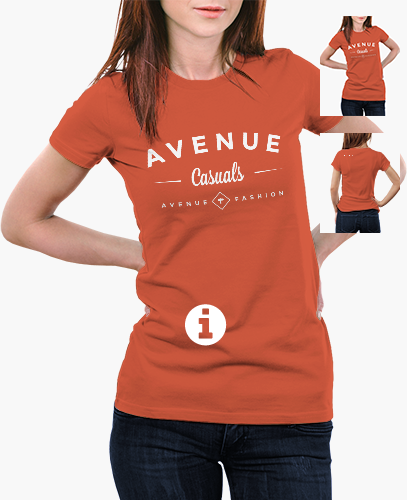
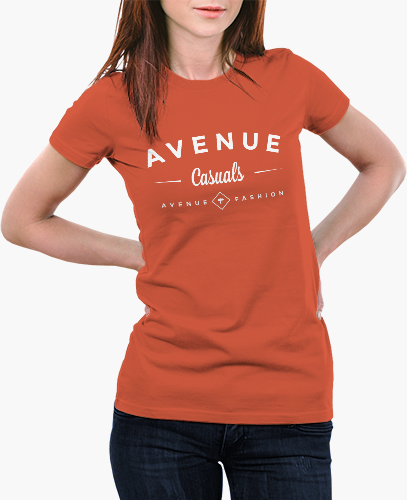
Add shop menu one sub menu to all items.

Changed region(s): [[0.7666, 0.03, 1.0, 0.48], [0.4423, 0.6, 0.5602, 0.69]]

diff --git a/index.html b/index.html
@@ -31,9 +31,24 @@
       <title>chevron-down</title>
       <path d="M4.516 7.548c0.436-0.446 1.043-0.481 1.576 0l3.908 3.747 3.908-3.747c0.533-0.481 1.141-0.446 1.574 0 0.436 0.445 0.408 1.197 0 1.615-0.406 0.418-4.695 4.502-4.695 4.502-0.217 0.223-0.502 0.335-0.787 0.335s-0.57-0.112-0.789-0.335c0 0-4.287-4.084-4.695-4.502s-0.436-1.17 0-1.615z"></path>
     </symbol>
+    <symbol id="icon-shopping-cart" viewBox="0 0 20 20">
+      <title>shopping-cart</title>
+      <path d="M13 17c0 1.104 0.894 2 2 2 1.104 0 2-0.896 2-2 0-1.106-0.896-2-2-2-1.106 0-2 0.894-2 2zM3 17c0 1.104 0.895 2 2 2 1.103 0 2-0.896 2-2 0-1.106-0.897-2-2-2-1.105 0-2 0.894-2 2zM6.547 12.172l11.068-3.162c0.211-0.061 0.385-0.289 0.385-0.51v-5.5h-14v-1.6c0-0.22-0.181-0.4-0.399-0.4h-3.202c-0.219 0-0.399 0.18-0.399 0.4v1.6h2l1.91 8.957 0.090 0.943v1.649c0 0.219 0.18 0.4 0.4 0.4h13.2c0.22 0 0.4-0.182 0.4-0.4v-1.549h-11.248c-1.15 0-1.174-0.551-0.205-0.828z"></path>
+    </symbol>
+    <symbol id="icon-favorite_border" viewBox="0 0 24 24">
+      <title>favorite_border</title>
+      <path d="M12.094 18.563c4.781-4.313 7.922-7.172 7.922-10.078 0-2.016-1.5-3.469-3.516-3.469-1.547 0-3.047 0.984-3.563 2.344h-1.875c-0.516-1.359-2.016-2.344-3.563-2.344-2.016 0-3.516 1.453-3.516 3.469 0 2.906 3.141 5.766 7.922 10.078l0.094 0.094zM16.5 3c3.094 0 5.484 2.391 5.484 5.484 0 3.797-3.375 6.844-8.531 11.531l-1.453 1.313-1.453-1.266c-5.156-4.688-8.531-7.781-8.531-11.578 0-3.094 2.391-5.484 5.484-5.484 1.734 0 3.422 0.844 4.5 2.109 1.078-1.266 2.766-2.109 4.5-2.109z"></path>
+    </symbol>
+    <symbol id="icon-shrink2" viewBox="0 0 32 32">
+      <title>shrink2</title>
+      <path d="M14 18v13l-5-5-6 6-3-3 6-6-5-5zM32 3l-6 6 5 5h-13v-13l5 5 6-6z"></path>
+    </symbol>
     </defs>
     </svg>
 
+    <!-- <svg class="icon icon-shopping-cart"><use xlink:href="#icon-shopping-cart"></use></svg> -->
+    <!-- <svg class="icon icon-favorite_border"><use xlink:href="#icon-favorite_border"></use></svg> -->
+    <!-- <svg class="icon icon-shrink2"><use xlink:href="#icon-shrink2"></use></svg> -->
 
     <header class="header navbar navbar-inverse navbar-fixed-top">
       <div class="container">
@@ -155,23 +170,113 @@
 
 
     <div class="shop-section-one">
-      <div class="shop-section-one__item-1">
+      <div class="shop-section-one__item-1 shop-section-one__item">
         <img src="./images/photo-body-1.png" class="shop-section_img">
+        <div class="shop-section-one__sub-menu">
+          <h5 class="shop-section-one__sub-menu-header">WOMANS BURNT ORANGE CASUAL TEE <sup>&pound</sup>29.95</h5>
+          <p>Classic casual t-shirt for women on the move.<br>100% cotton.</p>
+          <div class="shop-section-one__sub-menu-buttons">
+            <button type="submit" class="shop-section-one__link">
+              <svg class="icon icon-shopping-cart shop-section-one__icon"><use xlink:href="#icon-shopping-cart"></use></svg>
+            </button>
+            <button type="submit" class="shop-section-one__link">
+              <svg class="icon icon-favorite_border shop-section-one__icon"><use xlink:href="#icon-favorite_border"></use></svg>
+            </button>
+            <button type="submit" class="shop-section-one__link">
+              <svg class="icon icon-shrink2 shop-section-one__icon"><use xlink:href="#icon-shrink2"></use></svg>
+            </button>
+          </div>
+        </div>
       </div>
-      <div class="shop-section-one__item-2">
+      <div class="shop-section-one__item-2 shop-section-one__item">
         <img src="./images/photo-body-2.png" class="shop-section_img">
+        <div class="shop-section-one__sub-menu">
+          <h5 class="shop-section-one__sub-menu-header">WOMANS BURNT ORANGE CASUAL TEE <sup>&pound</sup>29.95</h5>
+          <p>Classic casual t-shirt for women on the move.<br>100% cotton.</p>
+          <div class="shop-section-one__sub-menu-buttons">
+            <button type="submit" class="shop-section-one__link">
+              <svg class="icon icon-shopping-cart shop-section-one__icon"><use xlink:href="#icon-shopping-cart"></use></svg>
+            </button>
+            <button type="submit" class="shop-section-one__link">
+              <svg class="icon icon-favorite_border shop-section-one__icon"><use xlink:href="#icon-favorite_border"></use></svg>
+            </button>
+            <button type="submit" class="shop-section-one__link">
+              <svg class="icon icon-shrink2 shop-section-one__icon"><use xlink:href="#icon-shrink2"></use></svg>
+            </button>
+          </div>
+        </div>
       </div>
-      <div class="shop-section-one__item-3">
+      <div class="shop-section-one__item-3 shop-section-one__item">
         <img src="./images/photo-body-3.png" class="shop-section_img">
+        <div class="shop-section-one__sub-menu">
+          <h5 class="shop-section-one__sub-menu-header">WOMANS BURNT ORANGE CASUAL TEE <sup>&pound</sup>29.95</h5>
+          <p>Classic casual t-shirt for women on the move.<br>100% cotton.</p>
+          <div class="shop-section-one__sub-menu-buttons">
+            <button type="submit" class="shop-section-one__link">
+              <svg class="icon icon-shopping-cart shop-section-one__icon"><use xlink:href="#icon-shopping-cart"></use></svg>
+            </button>
+            <button type="submit" class="shop-section-one__link">
+              <svg class="icon icon-favorite_border shop-section-one__icon"><use xlink:href="#icon-favorite_border"></use></svg>
+            </button>
+            <button type="submit" class="shop-section-one__link">
+              <svg class="icon icon-shrink2 shop-section-one__icon"><use xlink:href="#icon-shrink2"></use></svg>
+            </button>
+          </div>
+        </div>
       </div>
-      <div class="shop-section-one__item-4">
+      <div class="shop-section-one__item-4 shop-section-one__item">
         <img src="./images/photo-body-4.png" class="shop-section_img">
+        <div class="shop-section-one__sub-menu">
+          <h5 class="shop-section-one__sub-menu-header">WOMANS BURNT ORANGE CASUAL TEE <sup>&pound</sup>29.95</h5>
+          <p>Classic casual t-shirt for women on the move.<br>100% cotton.</p>
+          <div class="shop-section-one__sub-menu-buttons">
+            <button type="submit" class="shop-section-one__link">
+              <svg class="icon icon-shopping-cart shop-section-one__icon"><use xlink:href="#icon-shopping-cart"></use></svg>
+            </button>
+            <button type="submit" class="shop-section-one__link">
+              <svg class="icon icon-favorite_border shop-section-one__icon"><use xlink:href="#icon-favorite_border"></use></svg>
+            </button>
+            <button type="submit" class="shop-section-one__link">
+              <svg class="icon icon-shrink2 shop-section-one__icon"><use xlink:href="#icon-shrink2"></use></svg>
+            </button>
+          </div>
+        </div>
       </div>
-      <div class="shop-section-one__item-5">
+      <div class="shop-section-one__item-5 shop-section-one__item">
         <img src="./images/photo-body-5.png" class="shop-section_img">
+        <div class="shop-section-one__sub-menu">
+          <h5 class="shop-section-one__sub-menu-header">WOMANS BURNT ORANGE CASUAL TEE <sup>&pound</sup>29.95</h5>
+          <p>Classic casual t-shirt for women on the move.<br>100% cotton.</p>
+          <div class="shop-section-one__sub-menu-buttons">
+            <button type="submit" class="shop-section-one__link">
+              <svg class="icon icon-shopping-cart shop-section-one__icon"><use xlink:href="#icon-shopping-cart"></use></svg>
+            </button>
+            <button type="submit" class="shop-section-one__link">
+              <svg class="icon icon-favorite_border shop-section-one__icon"><use xlink:href="#icon-favorite_border"></use></svg>
+            </button>
+            <button type="submit" class="shop-section-one__link">
+              <svg class="icon icon-shrink2 shop-section-one__icon"><use xlink:href="#icon-shrink2"></use></svg>
+            </button>
+          </div>
+        </div>
       </div>
-      <div class="shop-section-one__item-6">
+      <div class="shop-section-one__item-6 shop-section-one__item">
         <img src="./images/photo-body-6.png" class="shop-section_img">
+        <div class="shop-section-one__sub-menu">
+          <h5 class="shop-section-one__sub-menu-header">WOMANS BURNT ORANGE CASUAL TEE <sup>&pound</sup>29.95</h5>
+          <p>Classic casual t-shirt for women on the move.<br>100% cotton.</p>
+          <div class="shop-section-one__sub-menu-buttons">
+            <button type="submit" class="shop-section-one__link">
+              <svg class="icon icon-shopping-cart shop-section-one__icon"><use xlink:href="#icon-shopping-cart"></use></svg>
+            </button>
+            <button type="submit" class="shop-section-one__link">
+              <svg class="icon icon-favorite_border shop-section-one__icon"><use xlink:href="#icon-favorite_border"></use></svg>
+            </button>
+            <button type="submit" class="shop-section-one__link">
+              <svg class="icon icon-shrink2 shop-section-one__icon"><use xlink:href="#icon-shrink2"></use></svg>
+            </button>
+          </div>
+        </div>
       </div>
     </div>
 

diff --git a/style.css b/style.css
@@ -1,7 +1,6 @@
 .header {
   height: 3vw;
   font-size: 1vw;
-
 }
 
 .icon__down {
@@ -14,7 +13,6 @@
 .header__bar {
   background-color: #222222;
 }
-
 
 .header__price:hover, .header__price:focus {
   text-decoration: none;
@@ -120,7 +118,7 @@
   width: 30vw;
   display: none;
   flex-flow: column wrap;
-  box-shadow: 0 6px 12px rgba(0,0,0,.175);
+  box-shadow: 0 6px 12px rgba(0, 0, 0, .175);
   z-index: 200;
   padding: 2vw;
   font-size: 1vw;
@@ -156,7 +154,7 @@
   font-size: 2vw;
 }
 
-.section-one__link-1:focus + .section-one__sub-menu-1 {
+.section-one__link-1:focus+.section-one__sub-menu-1 {
   display: flex;
 }
 
@@ -168,6 +166,11 @@
   border: 0;
   background-color: white;
   font-size: 1vw;
+}
+
+.sells-menu__link {
+  padding: 0.7vw 1vw !important;
+  line-height: 1vw !important;
 }
 
 .sells-menu__link:focus, .sells-menu__link:hover {
@@ -189,33 +192,91 @@
 }
 
 .shop-section-one__item-1 {
+  position: relative;
   grid-column: 1 / 2;
   grid-row: 1 / 2;
 }
 
 .shop-section-one__item-2 {
+  position: relative;
   grid-column: 2 / 3;
   grid-row: 1 / 2;
 }
 
 .shop-section-one__item-3 {
+  position: relative;
   grid-column: 3 / 5;
   grid-row: 1 / 3;
 }
 
 .shop-section-one__item-4 {
+  position: relative;
   grid-column: 1 / 3;
   grid-row: 2 / 4;
 }
 
 .shop-section-one__item-5 {
+  position: relative;
   grid-column: 3 / 4;
   grid-row: 3 / 4;
 }
 
 .shop-section-one__item-6 {
+  position: relative;
   grid-column: 4 / 5;
   grid-row: 3 / 4;
+}
+
+.shop-section-one__sub-menu {
+  position: absolute;
+  display: none;
+  flex-flow: column wrap;
+  align-items: center;
+  width: 100%;
+  background-color: #f8f8f8;
+  box-shadow: 0 6px 12px rgba(0, 0, 0, .175);
+  font-size: 0.5vw;
+  z-index: 100;
+  text-align: center;
+  color: #727272;
+}
+
+.shop-section-one__sub-menu-header {
+  font-size: 0.5vw;
+  font-weight: bold;
+}
+
+.shop-section-one__sub-menu-buttons {
+  margin-bottom: 0.5vw;
+}
+
+.shop-section-one__link {
+  width: 1vw;
+  height: 1vw;
+  background-color: #727272;
+  padding: 0;
+  border: 0;
+  border-radius: 50%;
+}
+
+.shop-section-one__link:focus, .shop-section-one__link:hover {
+  outline: none;
+  background-color: #00c8c8;
+}
+
+.shop-section-one__icon {
+  display: inline-block;
+  width: 0.5vw;
+  height: 0.5vw;
+  fill: #ffffff;
+}
+
+.shop-section-one__item:hover {
+  box-shadow: 0 6px 12px rgba(0, 0, 0, .175);
+}
+
+.shop-section-one__item:hover>.shop-section-one__sub-menu {
+  display: flex;
 }
 
 /*----------shop section two-----------------*/
